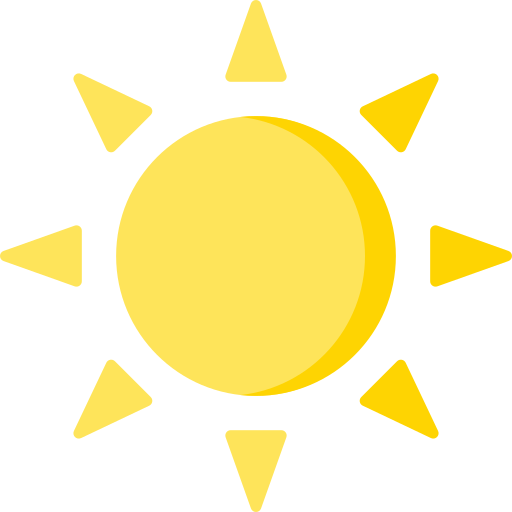
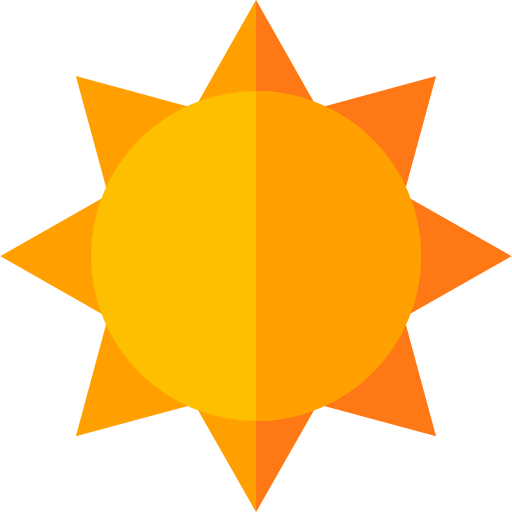
dark feature

diff --git a/components/Navbar/Menubar.jsx b/components/Navbar/Menubar.jsx
@@ -1,20 +1,10 @@
-import { useState } from 'react';
+import Image from 'next/image';
+import Arrow from '../../assets/arrow.png';
 
-const Bars = () => {
+const Menubar = ({ click, hidden }) => {
 	return (
-		<div className="w-full h-1 bg-gray-300 transition-bg duration-200 group-hover:bg-white rounded-full"></div>
-	);
-};
-
-const Menubar = ({ click }) => {
-	return (
-		<div
-			className="sm:hidden flex h-8 w-8 flex-col justify-around group cursor-pointer"
-			onClick={click}
-		>
-			<Bars />
-			<Bars />
-			<Bars />
+		<div className={`sm:hidden h-8 w-8 group cursor-pointer transition-transform duration-300 ${hidden ? '' : 'rotate-180'}`} onClick={click}>
+			<Image src={Arrow}/>
 		</div>
 	);
 };

diff --git a/components/DarkMode.jsx b/components/DarkMode.jsx
@@ -1,8 +1,14 @@
-export default function DarkMode({ onClick }) {
+import Image from 'next/image';
+import Light from '../assets/sun.png';
+import Dark from '../assets/moon.png';
+
+export default function DarkMode({ onClick, dark }) {
 	return (
 		<div
-			className="fixed h-12 w-12 rounded-full bg-sun bottom-5 right-5 cursor-pointer"
+			className="fixed h-14 w-14 rounded-full bg-gray-600 dark:bg-gray-50 bottom-5 right-5 cursor-pointer flex justify-center items-center"
 			onClick={onClick}
-		></div>
+		>
+			<Image src={dark ? Light : Dark} height={36} width={36} />
+		</div>
 	);
 }

diff --git a/components/Layout.jsx b/components/Layout.jsx
@@ -9,11 +9,11 @@ const Layout = ({ children }) => {
 		setDark(!dark);
 	}
 	return (
-		<main className={`${dark ? 'dark' : ''}`}>
-			<div className="dark:bg-gray-600">
+		<main className={`${dark ? 'dark' : ''} h-full`}>
+			<div className="dark:bg-gray-600 h-full">
 				<Navbar />
 				{children}
-				<DarkMode onClick={handleClick}/>
+				<DarkMode onClick={handleClick} dark={dark}/>
 			</div>
 		</main>
 	);

diff --git a/components/Content/CardsContainer.jsx b/components/Content/CardsContainer.jsx
@@ -11,7 +11,7 @@ const CardsContainer = () => {
 		});
 	}, []);
 	return (
-		<div className="w-full px-8 flex flex-col sm:flex-row top-20 relative justify-center flex-wrap max-w-7xl mx-auto">
+		<div className="w-full px-8 flex flex-col sm:flex-row py-20 relative justify-center flex-wrap max-w-7xl mx-auto">
 			{Data.map((element, index) => {
 				return (
 					<Card

diff --git a/components/Navbar/Navbar.jsx b/components/Navbar/Navbar.jsx
@@ -13,7 +13,7 @@ const Navbar = () => {
 		<nav className="w-full flex h-16 bg-gray-700 dark:bg-gray-900 fixed items-center sm:justify-around justify-between px-8 z-10">
 			<Signin />
 			<NavLinks hidden={hidden}/>
-			<Menubar click={handleClick} />
+			<Menubar click={handleClick} hidden={hidden}/>
 		</nav>
 	);
 };

diff --git a/tailwind.config.js b/tailwind.config.js
@@ -4,10 +4,6 @@ module.exports = {
 	darkMode: 'class', // or 'media' or 'class'
 	theme: {
 		extend: {
-			backgroundImage: {
-				'sun': "url('/assets/sun.png')",
-				'moon': "url('/assets/moon.png')"
-			}
 		},
 	},
 	variants: {
